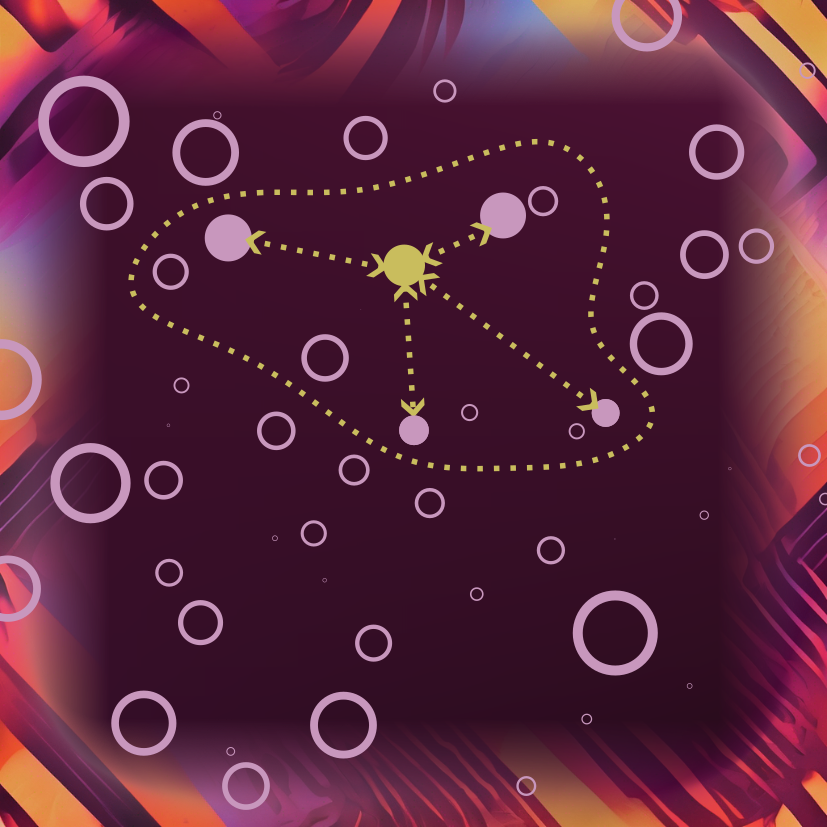
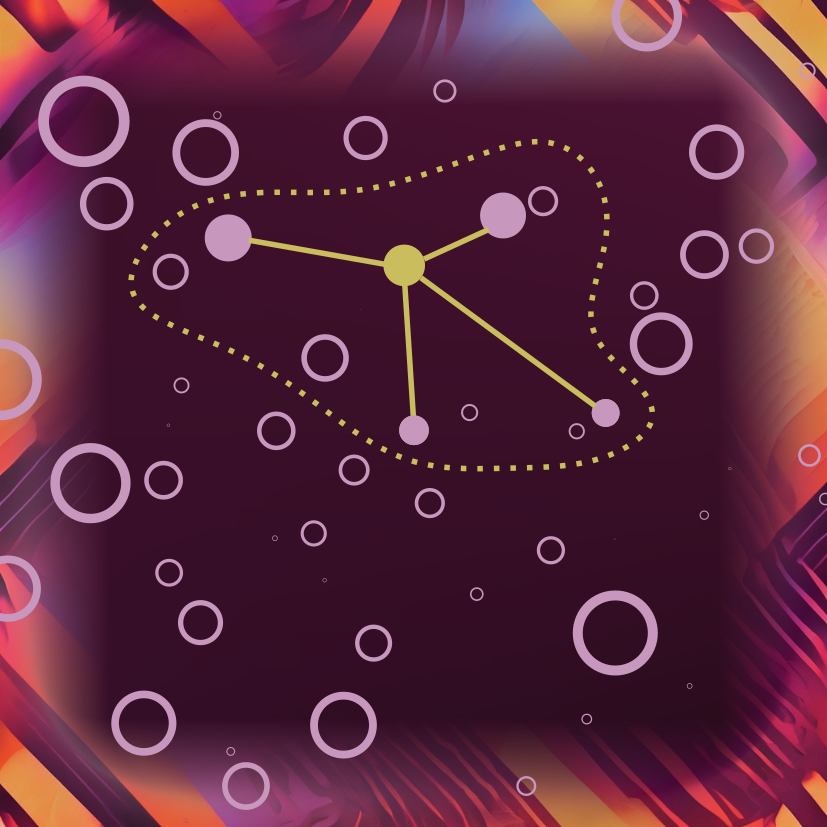
vault backup: 2024-06-23 12:17:49

diff --git a/Developmental Pathway/5. Potentiality.md b/Developmental Pathway/5. Potentiality.md
@@ -1,3 +1,5 @@
+![[potentiality.png]]
+
 Bennett: 
 Potentiality can be expressed as two triads forming a dipole, but it has its own peculiar quality that none of the earlier categories can convey. (...) Once again it is necessary to go beyond 'thus and so' in order to take into account all that might be, but is not, present. This additional element of our experience is the category of potentiality that requires five independent terms for its exemplification. (...) potentiality requires five terms because it is necessary to distinguish between what is and what might be, as well as to account for all the relationships into which a given system can enter.
 _______________________
